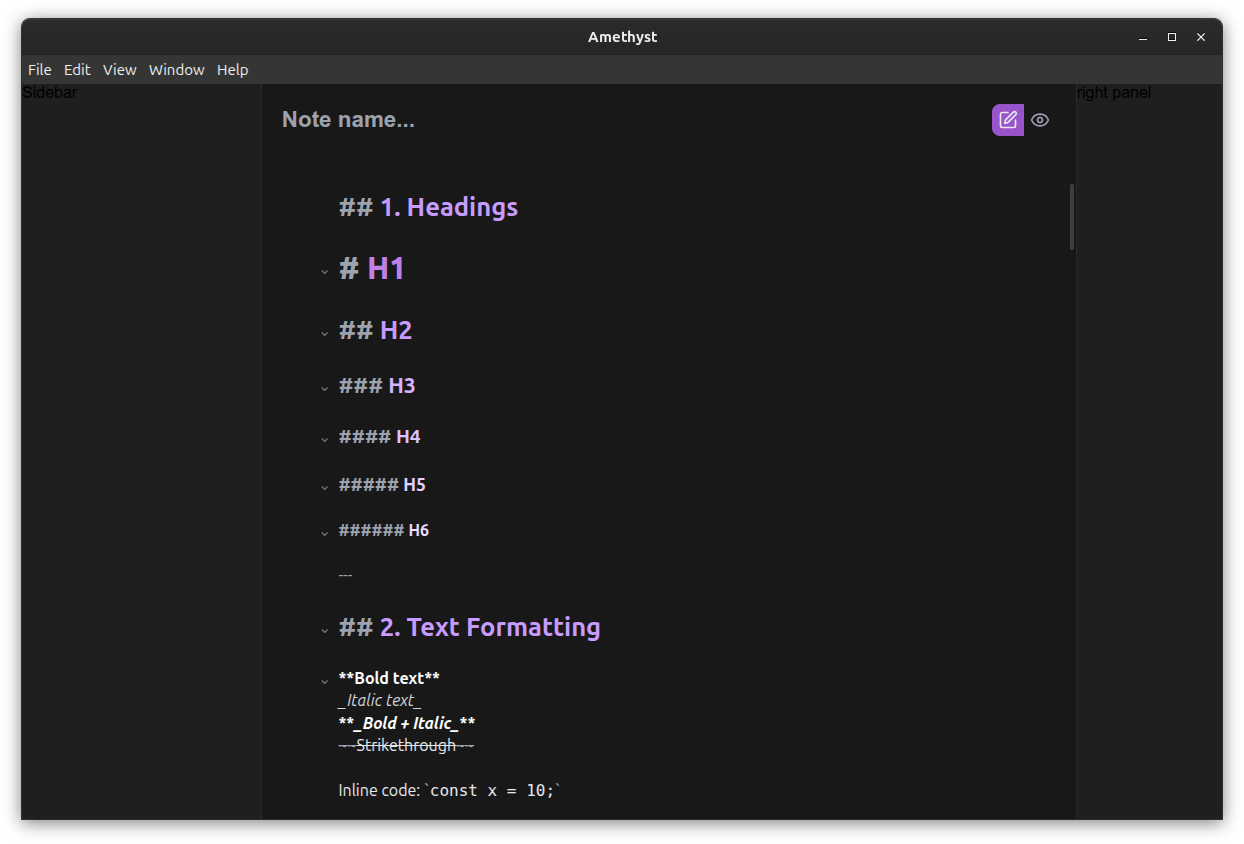
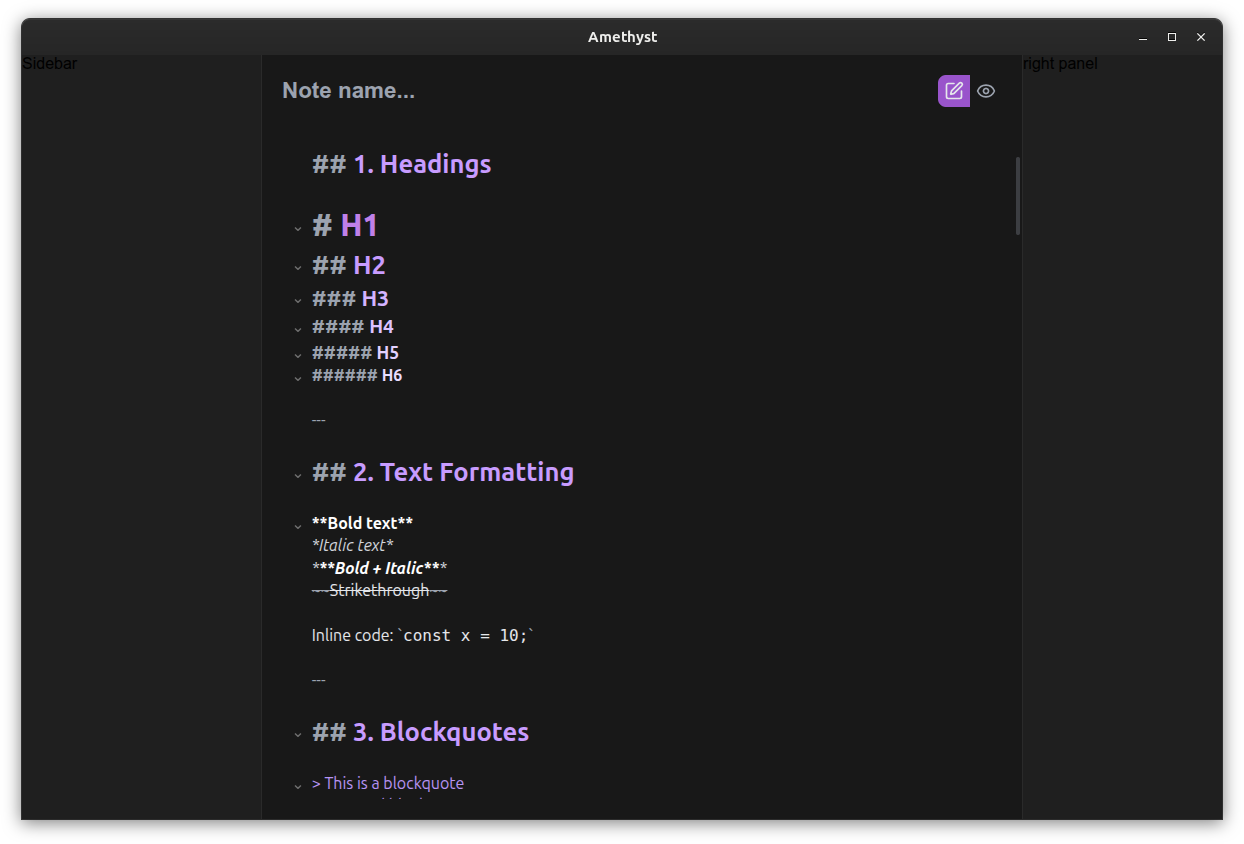
add new screenshots and remove menubar in production

diff --git a/electron/window/createWindow.ts b/electron/window/createWindow.ts
@@ -1,7 +1,7 @@
 // SPDX-License-Identifier: AGPL-3.0-or-later
 // Amethyst - A modern markdown note-taking application
 // Copyright (C) 2026 Abdallah
-import { app, BrowserWindow, shell } from 'electron';
+import { app, BrowserWindow, globalShortcut, Menu, shell } from 'electron';
 import path from 'node:path';
 import { fileURLToPath } from 'node:url';
 
@@ -26,12 +26,27 @@ export function createWindow() {
         },
     });
 
+
+    if (app.isPackaged) {
+        Menu.setApplicationMenu(null);
+    }
+
     // Prevent opening external links inside the Electron app
     win.webContents.setWindowOpenHandler(({ url }) => {
         // Open the URL in the system's default browser
         shell.openExternal(url);
         // Deny the request to open it inside the Electron app
         return { action: 'deny' };
+    });
+
+    // Reload
+    globalShortcut.register("CommandOrControl+R", () => {
+        win.reload();
+    });
+
+    // DevTools
+    globalShortcut.register("CommandOrControl+Shift+I", () => {
+        win.webContents.toggleDevTools();
     });
 
     win.webContents.on('will-navigate', (event, url) => {
